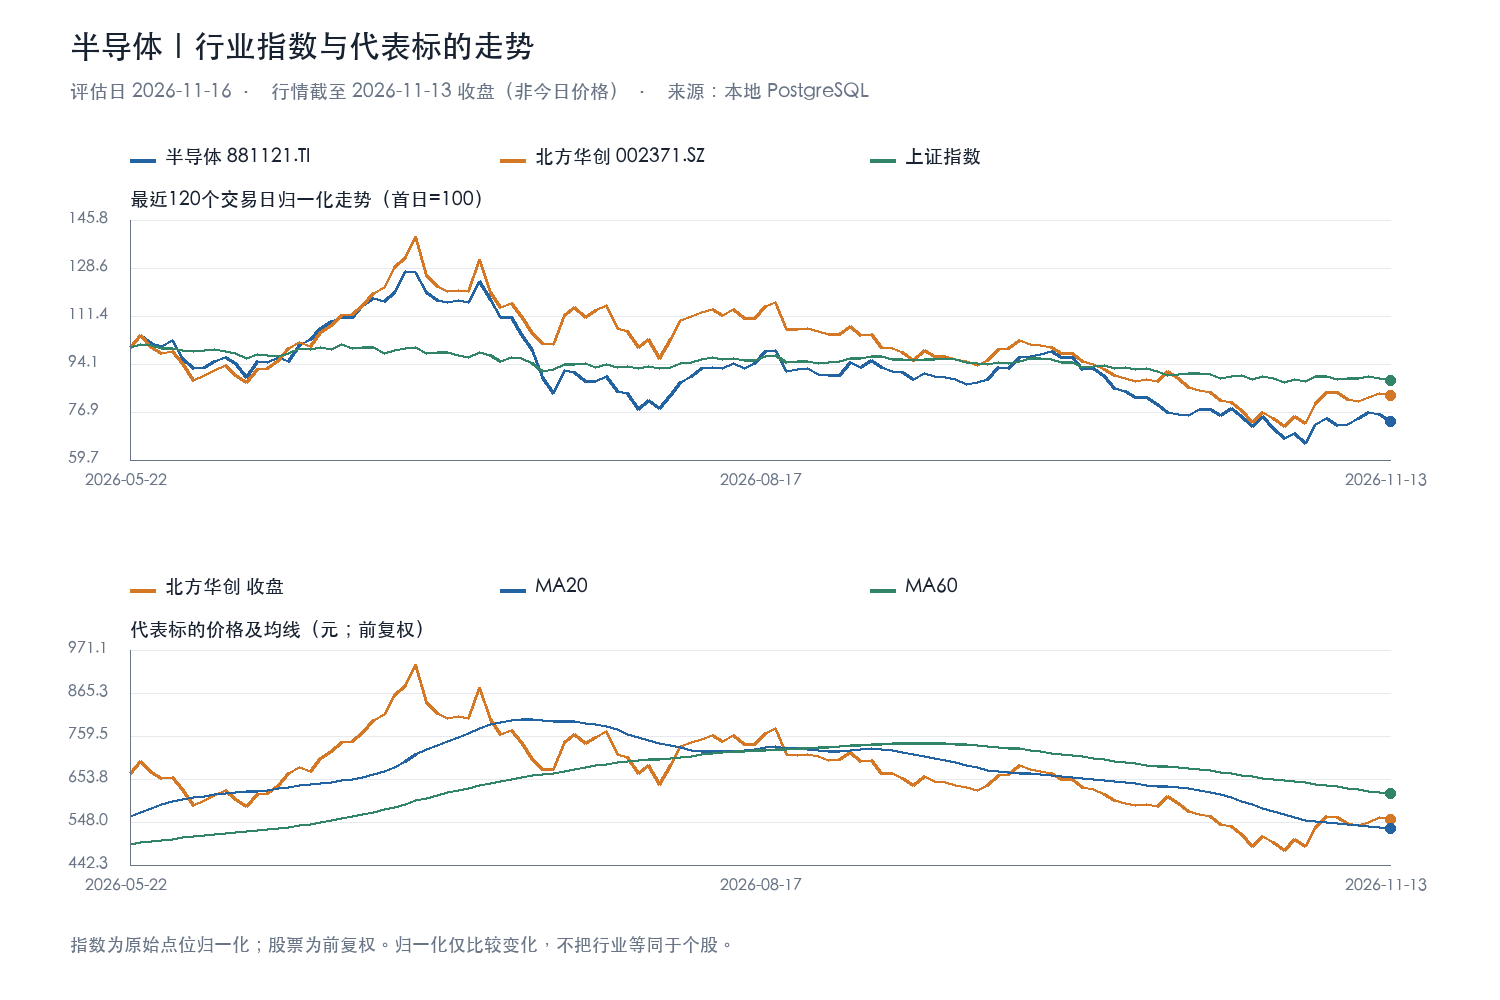
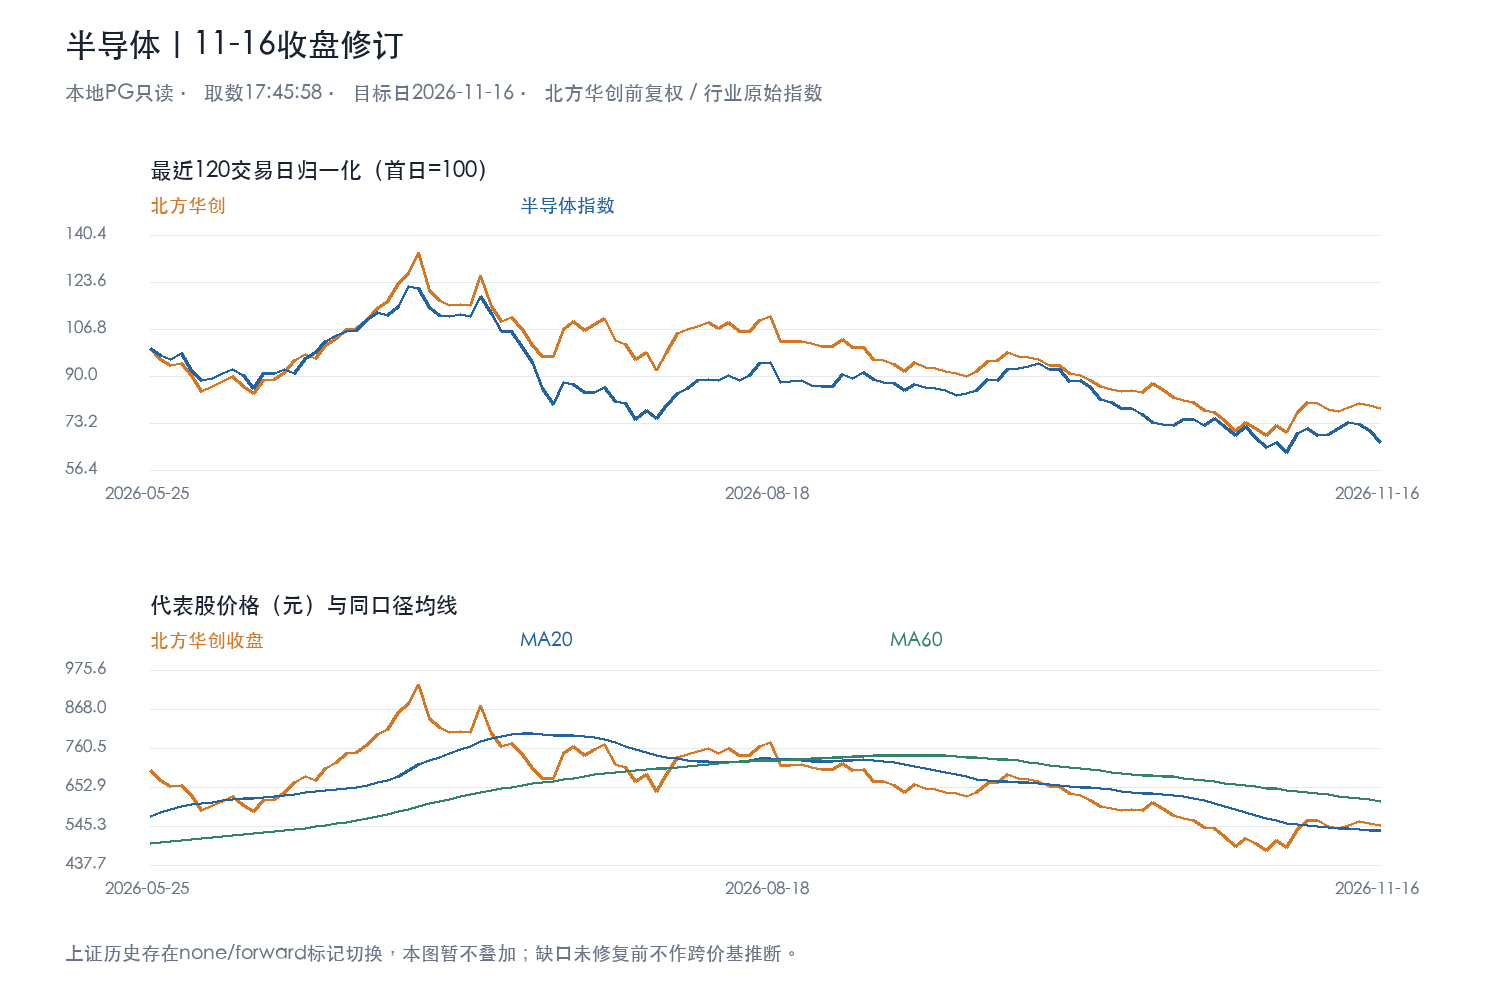
docs: 半导体首轮自然任务收盘修订与执行记录

diff --git a/研究台账/A股/半导体/03-每日结论.md b/研究台账/A股/半导体/03-每日结论.md
@@ -30,8 +30,19 @@
 - 样本区间2025-11-03至2026-11-13，各代码252条；股票复权标记为`forward`，MA20/60由同口径收盘价算术平均计算。图展示最近120个交易日，候选平台扫描使用全年库存历史。
 - 评分：本日技术观察判断25%；趋势与回踩状态参考见上文。因当日行情、基本面及平台成交额未核验，本轮所有评分上限40%，是披露过的审慎约束，不是统计模型。
 
-## 独立任务（待执行）
+## 2026-11-16 17:45自然任务收盘修订
+
+- 状态：自然调度已触发，取数核验与图表更新完成；不是首次人工记录的重跑。17:45:58的本地PG只读快照确认11-16开市，daily_data_update #1266于17:15:04启动、17:26:07成功结束；三个代码各253条且最新均为11-16。
+- 为保持同标的同日一行，上方七列表格与04评分历史保留首次人工观察原值；本节是带时间的正式修订，当前收盘判断以本节为准。图01已更新11-16行情；图02保留唯一25%旧行情点并明确标识。无可复现评分公式，本轮不制造新的同日百分数，25%不能解读为今日收盘推荐度。
+- 最新价格：北方华创546.39元（11-16收盘），当日−1.20%；半导体12390.43点，−5.95%，个股相对行业抗跌约4.75个百分点。北方华创MA20=531.86（高2.73%）、MA60=614.22（低11.04%）；行业MA20=13136.61（低5.68%）、MA60=15122.44（低18.07%）。
+- 判断与操作：结论仍为暂不入场。个股抗跌不等于行业企稳；交易仓等531.86附近回踩是否承接、能否收回近端平台，长线配置还需盈利、现金流与订单核验，不以短线盈亏比直接否决企业研究价值。
+- 量价：个股成交量为此前5日均量1.14倍，行业0.91倍；不据此断言吸筹。此次实际导出含turnover，收回此前“表中无该字段”的依据（DM已更正）；本轮尚未核对其单位，不把它当换手率或直接冠以亿元单位。
+- 参考情景更新：近端候选压力区仍为577.39–594.97，全年排除最近20交易日的收盘命中为10日；10日低点滚动至481.25，参考收益/风险=(577.39−546.39)/(546.39−481.25)=0.48:1，未扣费。481.25是滚动统计观察线，不是已验证执行止损；此前478.69风险观察记录保留，不以重新取低点暗改已有交易风险。
+- 数据限制：股票价基全为forward，行业全为none，各自均线同口径算术平均。上证2026-09-28及10-08标记forward、次日又回none，完整比较窗口存在标记异常，本轮图01移除上证叠加，不假定一致。最新财报、现金流、订单、公告、平台成交额单位仍待核；不能据本次技术观察确认“基本面无利空”或“错杀”。
+- 复核快照：[本轮行情](../../../artifacts/research-desk/2026-11-16/semiconductor-1745/bars.csv)、[日历及任务元信息](../../../artifacts/research-desk/2026-11-16/semiconductor-1745/meta.json)。仅本地PG，无外采、补数或业务库写入。
+
+## 独立任务（首次自然执行已完成）
 
 - 任务名：`research_desk_A股_半导体`。
-- 实际调度：DSH任务已创建并启用，周一至周五北京时间17:45；休市由交易日历门禁跳过。真实ID：`schedule-7b80dd8b-81fd-44ac-b9c9-3ff272cabd9b`；首次计划2026-11-16 17:45，自然执行待验证。详见[任务账本](../任务账本.md)。
+- 实际调度：DSH任务已创建并启用，周一至周五北京时间17:45；休市由交易日历门禁跳过。真实ID：`schedule-7b80dd8b-81fd-44ac-b9c9-3ff272cabd9b`；首次计划2026-11-16 17:45，已收到自然触发并完成11-16行情核验与收盘修订。详见[任务账本](../任务账本.md)。
 - 运行前检查数据日是否等于目标交易日；缺数则标注沿用和缺口，不将旧价当今日价。休市不补评分；后续运行按日追加结论和评分，已有日期不重复追加；若当日日线未就绪，不倒填当日正常评分。

diff --git a/研究台账/A股/任务账本.md b/研究台账/A股/任务账本.md
@@ -6,7 +6,7 @@
 
 | 行业 | 业务任务名 | DSH任务标题 | 真实任务ID | 时间（Asia/Shanghai） | 首次计划触发 | 状态 |
 |---|---|---|---|---|---|---|
-| 半导体 | research_desk_A股_半导体 | 更新半导体研究台账 | schedule-7b80dd8b-81fd-44ac-b9c9-3ff272cabd9b | 周一至周五17:45 | 2026-11-16 17:45 | active；首次自然执行待验证 |
+| 半导体 | research_desk_A股_半导体 | 更新半导体研究台账 | schedule-7b80dd8b-81fd-44ac-b9c9-3ff272cabd9b | 周一至周五17:45 | 2026-11-16 17:45 | active；首轮自然触发与收盘修订完成，产物已由DM检查纳入本次提交 |
 | 光伏设备 | research_desk_A股_光伏设备 | 更新光伏设备研究台账 | schedule-16b832c5-3fb6-4136-a0bc-170282654e74 | 周一至周五18:00 | 2026-11-16 18:00 | active；首次自然执行待验证 |
 | 消费电子 | research_desk_A股_消费电子 | 更新消费电子研究台账 | schedule-696c5d44-ba69-4b90-9fdc-2cc6164eb7b1 | 周一至周五18:10 | 2026-11-16 18:10 | active；首次自然执行待验证 |
 
@@ -30,3 +30,4 @@
 |---|---|---|---|---|
 | 2026-11-16 | 三个行业首次人工留档 | 已完成 | 2026-11-13 | 非自然调度，已标当日行情缺失，DM已将首批产物纳入Git |
 | 2026-11-16 | 三个独立定时任务 | 已创建启用，尚未自然执行 | 待运行时核对 | 首次触发分别17:45/18:00/18:10，不把创建成功当执行成功 |
+| 2026-11-16 17:45 | research_desk_A股_半导体 | 自然触发；行情核验、图表及结论修订完成 | 2026-11-16 | PG只读取数17:45:58，日历开市；数据任务1266成功17:26:07；同日原行及25%首次评分未覆盖/未重复，另记收盘修订；上证混合价基标记单列缺口并移除比较图 |
